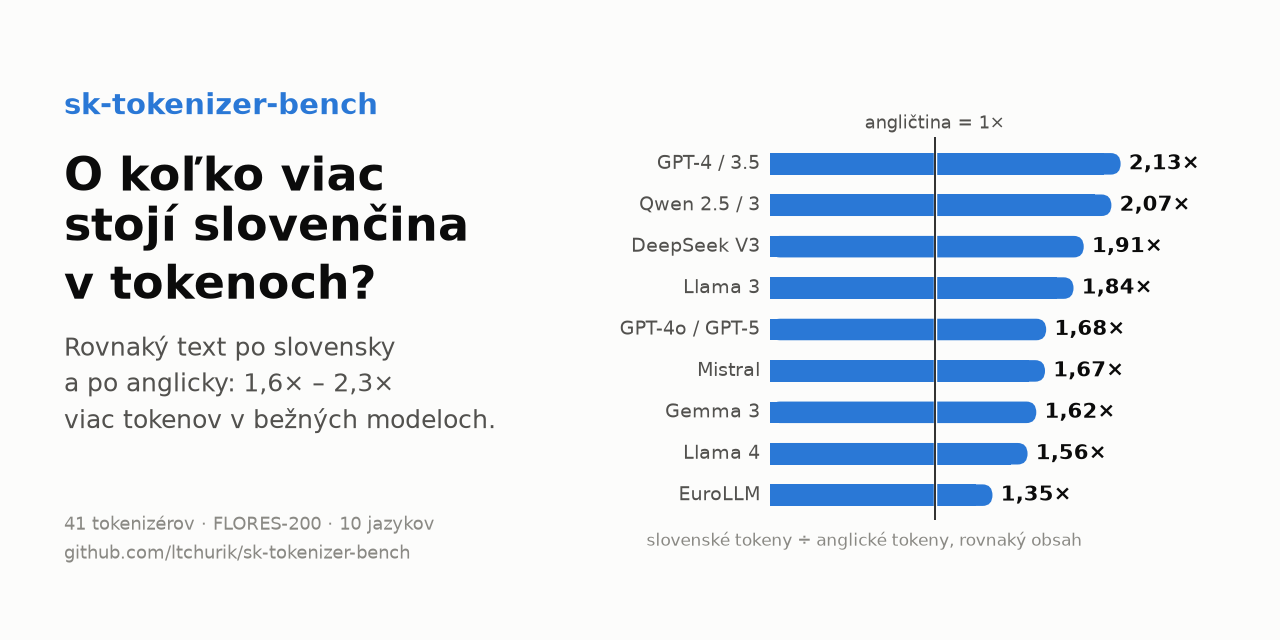
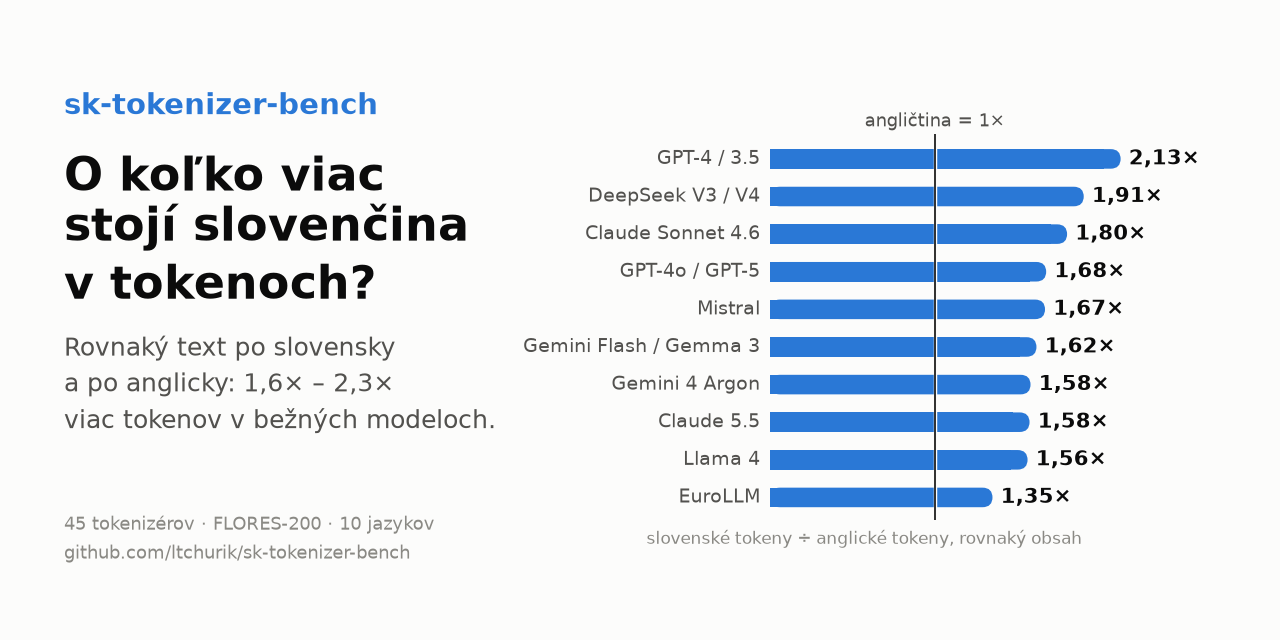
Social previews with Claude and Gemini (#16)
The bar chart now includes Claude Sonnet 4.6, Claude 5.5, Gemini 3.8 Flash
and Gemini 4 Argon, sorted by ratio; the tokenizer count comes from the
results. Image alt texts and the CITATION abstract updated.

Changed region(s): [[0.4062, 0.1562, 0.9375, 0.875], [0.5, 0.8125, 0.75, 0.875]]

diff --git a/site/index.html b/site/index.html
@@ -17,7 +17,7 @@
 <meta property="og:locale" content="sk_SK">
 <meta property="og:locale:alternate" content="en_US">
 <meta property="og:image" content="https://ltchurik.github.io/sk-tokenizer-bench/social-preview-sk.png">
-<meta property="og:image:alt" content="Graf: koľkokrát viac tokenov potrebuje slovenský text ako rovnaký text po anglicky. GPT-4 2,13×, GPT-4o / GPT-5 1,68×, Llama 4 1,56×, EuroLLM 1,35×.">
+<meta property="og:image:alt" content="Graf: koľkokrát viac tokenov potrebuje slovenský text ako rovnaký text po anglicky. GPT-4 2,13×, Claude Sonnet 4.6 1,80×, GPT-4o / GPT-5 1,68×, Gemini 4 Argon a Claude 5.5 1,58×, Llama 4 1,56×, EuroLLM 1,35×.">
 <meta property="og:image:width" content="1280">
 <meta property="og:image:height" content="640">
 <meta name="twitter:card" content="summary_large_image">

diff --git a/docs/make_social_preview.py b/docs/make_social_preview.py
@@ -18,21 +18,22 @@ from matplotlib.patches import FancyBboxPatch  # noqa: E402
 ROOT = Path(__file__).resolve().parent.parent
 
 r = json.load(open(ROOT / "results" / "flores" / "results.json", encoding="utf-8"))
-pick = [("GPT-4 / 3.5", "GPT-4 / 3.5 (cl100k_base)"), ("Qwen 2.5 / 3", "Qwen 2.5 / 3"),
-        ("DeepSeek V3", "DeepSeek V3 / R1 / V4"), ("Llama 3", "Llama 3.x"),
-        ("GPT-4o / GPT-5", "GPT-4o / 4.1 / 5 (o200k_base)"), ("Mistral", "Mistral Nemo / Small 3–4 / Large 2 (tekken)"),
-        ("Gemma 3", "Gemma 3"), ("Llama 4", "Llama 4"), ("EuroLLM", "EuroLLM")]
-data = [(lab, r[k]["ratio_vs_en"]["sk"]["ALL"]) for lab, k in pick]
+pick = [("GPT-4 / 3.5", "GPT-4 / 3.5 (cl100k_base)"), ("DeepSeek V3 / V4", "DeepSeek V3 / R1 / V4"),
+        ("Claude Sonnet 4.6", "Claude Sonnet 4.6 (API)"), ("GPT-4o / GPT-5", "GPT-4o / 4.1 / 5 (o200k_base)"),
+        ("Mistral", "Mistral Nemo / Small 3–4 / Large 2 (tekken)"), ("Gemini Flash / Gemma 3", "Gemini 3.8 Flash (API)"),
+        ("Claude 5.5", "Claude Opus / Sonnet / Haiku 5.5 (API)"), ("Gemini 4 Argon", "Gemini 4 Argon (API)"),
+        ("Llama 4", "Llama 4"), ("EuroLLM", "EuroLLM")]
+data = sorted(((lab, r[k]["ratio_vs_en"]["sk"]["ALL"]) for lab, k in pick), key=lambda x: -x[1])
 TEXT = {
     "en": {"file": "social-preview.png", "dec": ".",
            "title": "How much more\ndoes Slovak cost\nin LLM tokens?",
            "sub": "Same text, Slovak vs English:\n1.6× – 2.3× more tokens\non mainstream models.",
-           "foot": "41 tokenizers · FLORES-200 · 10 languages", "base": "English = 1×",
+           "foot": f"{len(r)} tokenizers · FLORES-200 · 10 languages", "base": "English = 1×",
            "axis": "Slovak tokens ÷ English tokens, same content"},
     "sk": {"file": "social-preview-sk.png", "dec": ",",
            "title": "O koľko viac\nstojí slovenčina\nv tokenoch?",
            "sub": "Rovnaký text po slovensky\na po anglicky: 1,6× – 2,3×\nviac tokenov v bežných modeloch.",
-           "foot": "41 tokenizérov · FLORES-200 · 10 jazykov", "base": "angličtina = 1×",
+           "foot": f"{len(r)} tokenizérov · FLORES-200 · 10 jazykov", "base": "angličtina = 1×",
            "axis": "slovenské tokeny ÷ anglické tokeny, rovnaký obsah"},
 }
 SURF, INK, INK2, MUTED, BLUE = "#fcfcfb", "#0b0b0b", "#52514e", "#8a8984", "#2a78d6"

diff --git a/README.md b/README.md
@@ -9,7 +9,7 @@
 [![Python 3.10+](https://img.shields.io/badge/python-3.10%2B-blue.svg)](requirements.txt)
 
 <p align="center">
-  <img src="docs/social-preview.png" width="100%" alt="Bar chart: Slovak needs 2.13× the tokens of English on GPT-4, 2.07× on Qwen 2.5/3, 1.91× on DeepSeek V3, 1.84× on Llama 3, 1.68× on GPT-4o/GPT-5, 1.67× on Mistral, 1.62× on Gemma 3, 1.56× on Llama 4 and 1.35× on EuroLLM (FLORES-200).">
+  <img src="docs/social-preview.png" width="100%" alt="Bar chart: Slovak needs 2.13× the tokens of English on GPT-4, 1.91× on DeepSeek V3 / V4, 1.80× on Claude Sonnet 4.6, 1.68× on GPT-4o/GPT-5, 1.67× on Mistral, 1.62× on Gemini Flash / Gemma 3, 1.58× on Gemini 4 Argon and Claude 5.5, 1.56× on Llama 4 and 1.35× on EuroLLM (FLORES-200).">
 </p>
 
 **[▶ Online calculator: paste your Slovak text and see its token count and cost](https://ltchurik.github.io/sk-tokenizer-bench/)**
